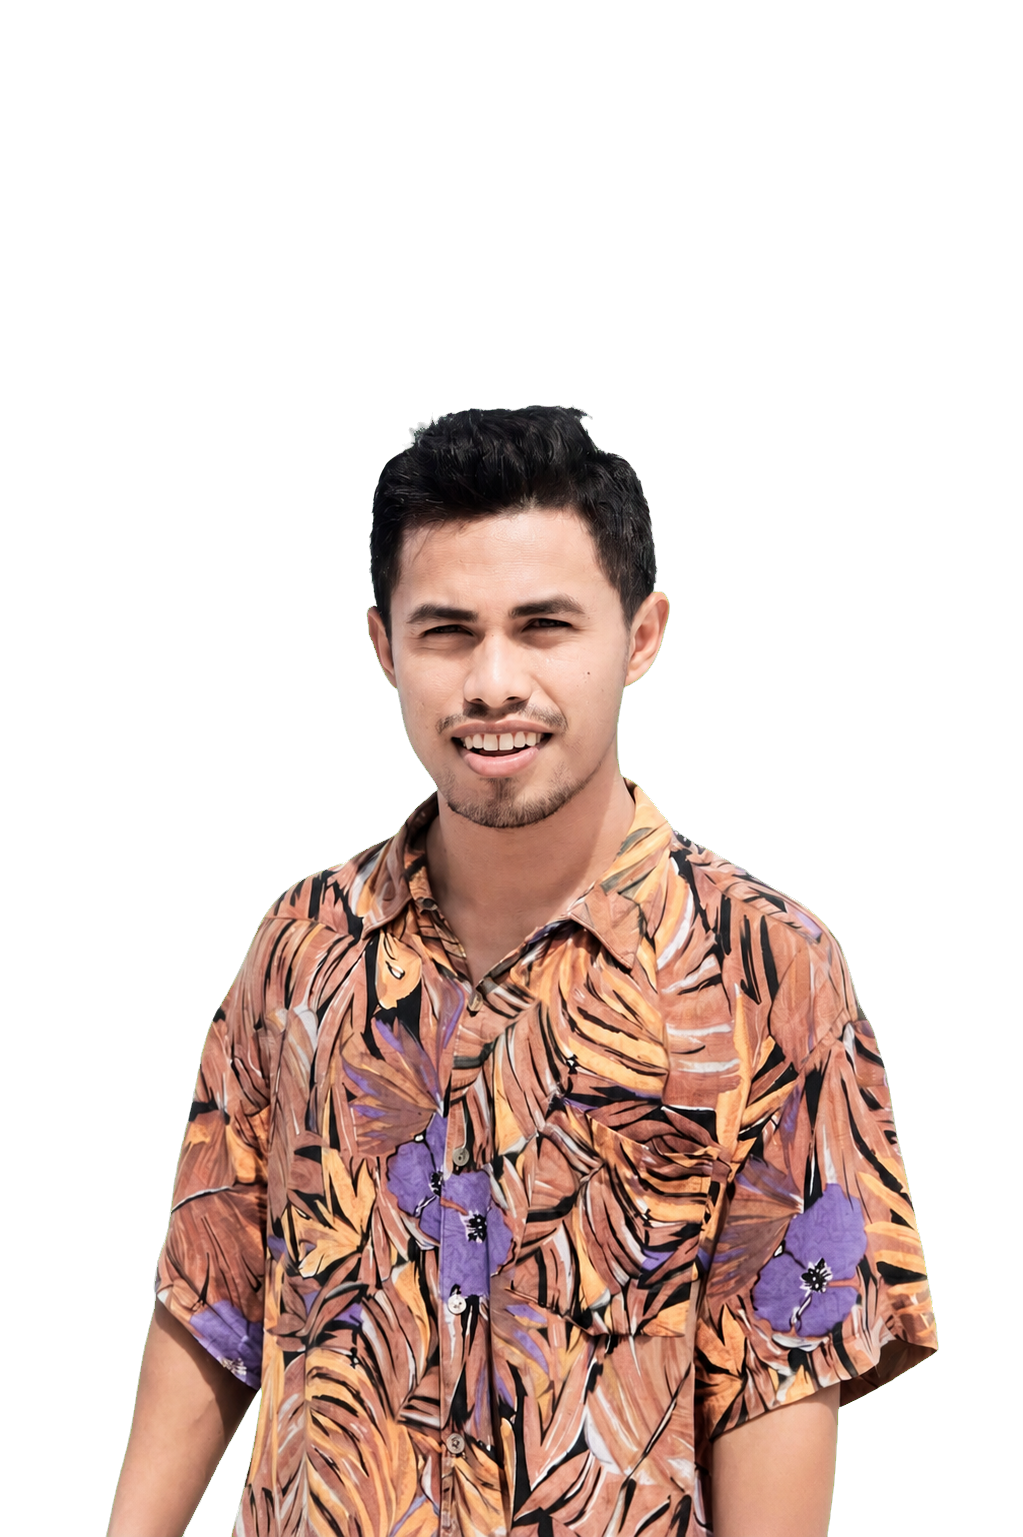
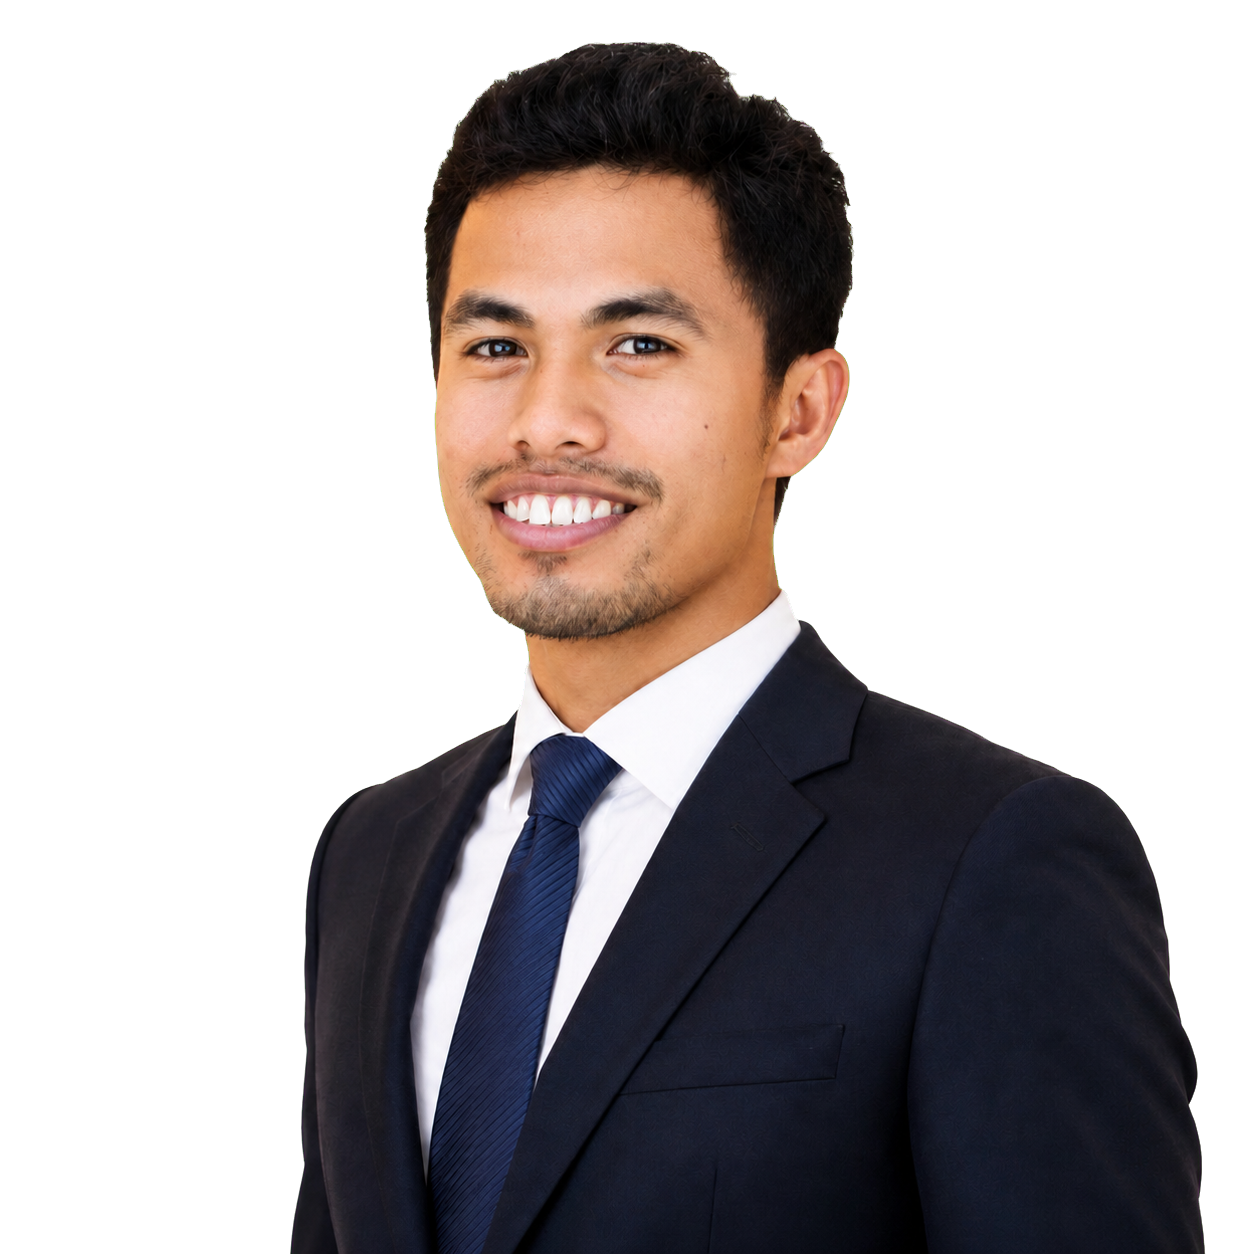
responsiveness

diff --git a/src/styles.css b/src/styles.css
@@ -1467,14 +1467,14 @@ body {
 .portrait-card .portrait-person {
   position: absolute;
   z-index: 1;
-  right: -2%;
-  bottom: -2px;
-  width: 103%;
-  height: 108%;
+  right: 0;
+  bottom: 0;
+  width: 100%;
+  height: 100%;
   display: block;
   object-fit: contain;
   object-position: center bottom;
-  transform: scale(1.24);
+  transform: scale(1.06);
   transform-origin: center bottom;
   filter:
     saturate(0.92)
@@ -1811,26 +1811,86 @@ body {
 
 @media (max-width: 780px) {
   .site-header {
+    top: max(8px, env(safe-area-inset-top));
+    right: max(8px, env(safe-area-inset-right));
+    left: max(8px, env(safe-area-inset-left));
+    width: auto;
+    min-height: 62px;
+    padding: 8px;
+    grid-template-columns: minmax(0, 1fr) 42px;
+    column-gap: 8px;
+    transform: none;
+  }
+
+  .brand {
+    width: 100%;
+    min-width: 0;
+    gap: 10px;
+    overflow: hidden;
+  }
+
+  .brand-mark {
+    flex: 0 0 40px;
+  }
+
+  .brand-copy {
+    min-width: 0;
+    overflow: hidden;
+  }
+
+  .brand-copy strong,
+  .brand-copy small {
+    display: block;
+    max-width: 100%;
+    overflow: hidden;
+    text-overflow: ellipsis;
+    white-space: nowrap;
+  }
+
+  .site-header {
     border-color: var(--night-line);
     background: rgba(10, 14, 18, 0.9);
   }
 
   .menu-toggle {
+    justify-self: end;
+    flex: 0 0 42px;
     border-color: var(--night-line);
+    cursor: pointer;
   }
 
   .menu-toggle span {
     background: var(--night-text);
+    transform-origin: center;
+    transition: transform 180ms ease, opacity 180ms ease;
+  }
+
+  .menu-toggle[aria-expanded='true'] span:first-child {
+    transform: translateY(3.5px) rotate(45deg);
+  }
+
+  .menu-toggle[aria-expanded='true'] span:last-child {
+    transform: translateY(-3.5px) rotate(-45deg);
   }
 
   .mobile-nav {
+    top: calc(100% + 8px);
+    right: 0;
+    left: 0;
+    max-height: calc(100dvh - 90px - env(safe-area-inset-top));
+    padding: 12px;
     border-color: var(--night-line);
     background: #10151a;
+    overflow-y: auto;
   }
 
   .mobile-nav button {
+    width: 100%;
+    min-height: 50px;
+    padding: 14px 10px;
     border-color: var(--night-line-soft);
     color: var(--night-text);
+    cursor: pointer;
   }
 
   .hero {
@@ -1876,5 +1936,193 @@ body {
 
   .profile-facts {
     grid-template-columns: 1fr 1fr;
+  }
+}
+
+@media (max-width: 370px) {
+  .site-header {
+    right: max(6px, env(safe-area-inset-right));
+    left: max(6px, env(safe-area-inset-left));
+    grid-template-columns: minmax(0, 1fr) 38px;
+    column-gap: 6px;
+  }
+
+  .brand-mark {
+    flex-basis: 36px;
+    width: 36px;
+    height: 36px;
+  }
+
+  .brand-copy small {
+    display: none;
+  }
+
+  .menu-toggle {
+    width: 38px;
+    height: 38px;
+    flex-basis: 38px;
+  }
+}
+
+/* Readability pass: keep the editorial hierarchy without micro-sized UI copy. */
+.brand-copy strong {
+  font-size: 15px;
+}
+
+.brand-copy small {
+  font-size: 11px;
+  line-height: 1.35;
+}
+
+.desktop-nav button {
+  font-size: 14px;
+}
+
+.header-cta,
+.primary-button,
+.text-link {
+  font-size: 13px;
+}
+
+.hero-status,
+.eyebrow,
+.contact-kicker {
+  font-size: 12px;
+  line-height: 1.35;
+}
+
+.hero-intro {
+  font-size: clamp(17px, 1.25vw, 20px);
+  line-height: 1.7;
+}
+
+.portrait-topline {
+  font-size: 11px;
+}
+
+.portrait-caption span {
+  max-width: 150px;
+  font-size: 11px;
+  line-height: 1.45;
+}
+
+.portrait-sticker {
+  width: 68px;
+  font-size: 11px;
+}
+
+.profile-facts dt {
+  margin-bottom: 9px;
+  font-size: 12px;
+  line-height: 1.35;
+}
+
+.profile-facts dd {
+  font-size: 15px;
+  line-height: 1.45;
+}
+
+.marquee-track {
+  font-size: 13px;
+}
+
+.section-heading > p,
+.experience-summary,
+.service-card p,
+.about-copy p {
+  font-size: 16px;
+}
+
+.experience-number,
+.experience-title p,
+.experience-meta time {
+  font-size: 12px;
+  line-height: 1.45;
+}
+
+.tag-list span {
+  padding: 7px 10px;
+  font-size: 11px;
+}
+
+.service-topline {
+  font-size: 12px;
+}
+
+.tool-group > span {
+  font-size: 12px;
+  line-height: 1.4;
+}
+
+.tool-group > div span {
+  padding: 10px 13px;
+  font-size: 12px;
+}
+
+.education-year,
+.education-card p,
+.education-card > div > span {
+  font-size: 12px;
+  line-height: 1.45;
+}
+
+.certification-row span,
+.certification-row p {
+  font-size: 12px;
+  line-height: 1.5;
+}
+
+.certification-row strong {
+  font-size: 16px;
+  line-height: 1.4;
+}
+
+.email-button {
+  font-size: 14px;
+}
+
+.phone-link {
+  font-size: 13px;
+}
+
+.contact-section footer {
+  font-size: 12px;
+  line-height: 1.5;
+}
+
+.footer-brand span {
+  font-size: 10px;
+}
+
+@media (max-width: 780px) {
+  .mobile-nav button {
+    font-size: 14px;
+  }
+
+  .profile-facts dd {
+    font-size: 14px;
+  }
+}
+
+@media (max-width: 540px) {
+  .brand-copy strong {
+    font-size: 14px;
+  }
+
+  .brand-copy small {
+    font-size: 10px;
+  }
+
+  .hero-status,
+  .eyebrow,
+  .contact-kicker {
+    font-size: 11px;
+  }
+
+  .section-heading > p,
+  .experience-summary,
+  .service-card p,
+  .about-copy p {
+    font-size: 15px;
   }
 }